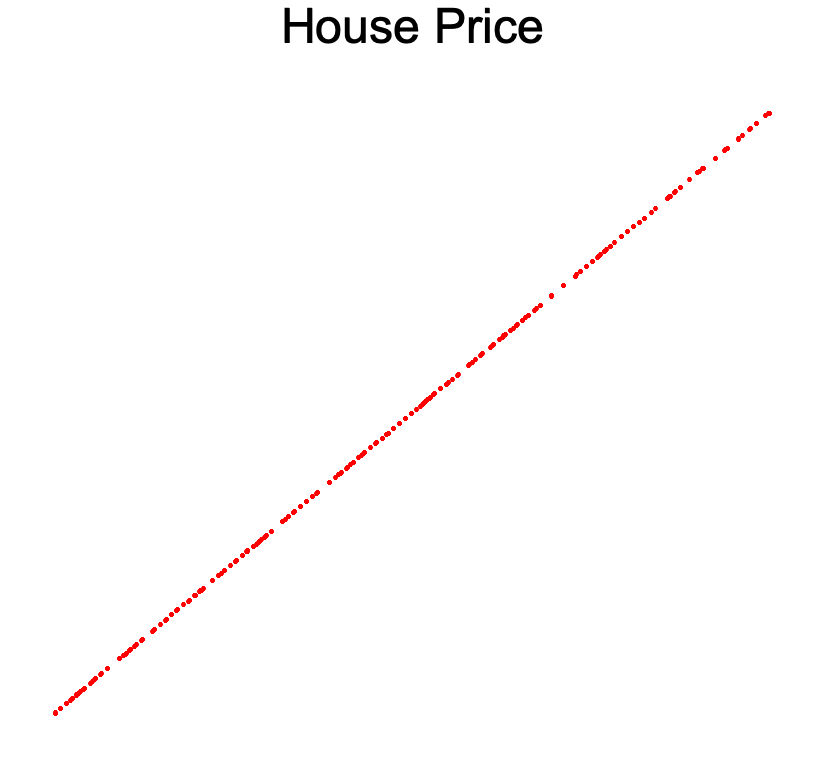
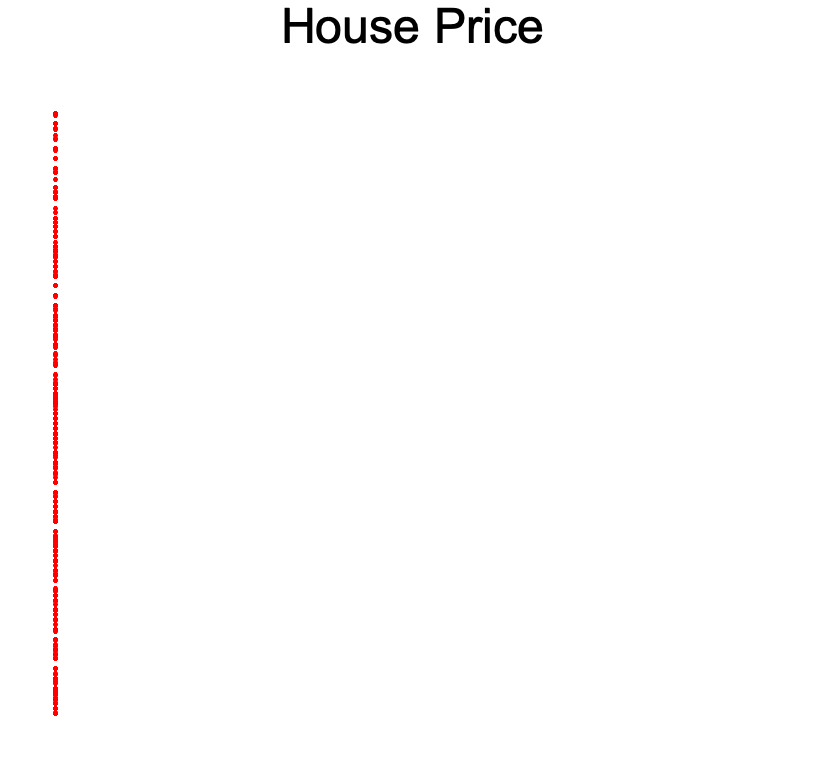
feat:house_price

diff --git a/src/kaggle/house_price/house_price.rs b/src/kaggle/house_price/house_price.rs
@@ -24,9 +24,16 @@ pub fn main(){
     println!("{:?}",b);
     let mut c= train_df.select(["YrSold","SalePrice"]).unwrap();
 
-    let  x_train: ArrayBase<ndarray::OwnedRepr<f64>, Dim<[usize; 2]>> = c.to_ndarray::<Float64Type>(IndexOrder::Fortran).unwrap();
-   
+    let  x_train: ArrayBase<ndarray::OwnedRepr<f32>, Dim<[usize; 2]>> = c.to_ndarray::<Float32Type>(IndexOrder::Fortran).unwrap();
 
+    println!("{:?}",x_train);
+    let mut data: Vec<Vec<_>> = Vec::new();
+    for row in x_train.outer_iter() {
+        let row_vec: Vec<_> = row.iter().cloned().collect();
+        data.push(row_vec);
+    }
+    println!("{:?}",data);
+    
     let root_area = BitMapBackend::new(OUT_FILE_NAME, (824, 768)).into_drawing_area();
     root_area.fill(&WHITE).unwrap();//배경
     let root_area: DrawingArea<BitMapBackend<'_>, plotters::coord::Shift> = root_area.titled("House Price", ("sans-serif", 60)).unwrap();
@@ -39,7 +46,7 @@ pub fn main(){
    
 
 linear_function.draw_series(PointSeries::of_element(
-    y_train.into_iter().map(|x|x).step_by(1).map(|x| (x, x)),
+    data.into_iter().map(|x|x).step_by(1).map(|x| (x[0], x[1])),
     2,
     ShapeStyle::from(&RED).filled(),
     &|coord, size, style| {
